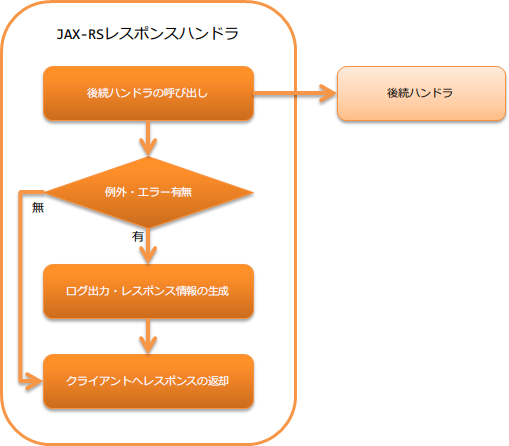
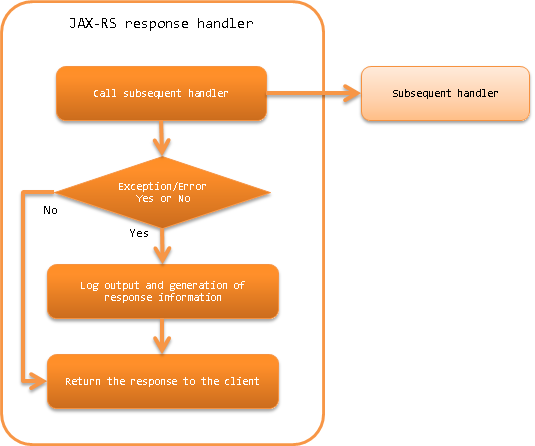
JAX-RSレスポンスハンドラページを英語化

diff --git a/en/application_framework/application_framework/handlers/rest/jaxrs_response_handler.rst b/en/application_framework/application_framework/handlers/rest/jaxrs_response_handler.rst
@@ -1,33 +1,33 @@
 .. _jaxrs_response_handler:
 
-JAX-RSレスポンスハンドラ
+JAX-RS Response Handler
 ==================================================
-.. contents:: 目次
+.. contents:: Table of contents
   :depth: 3
   :local:
 
-本ハンドラでは、後続のハンドラ(リソース(アクション)クラスや :ref:`body_convert_handler`)
-から戻されたレスポンス情報を、クライアントに返却する。
-後続のハンドラで例外及びエラーが送出された場合には、エラー及び例外に対応したレスポンス情報を構築しクライアントに返却する。
+This handler returns the response information from the subsequent handler (resource (action) class or :ref:`body_convert_handler`) to the client.
+If an exception and error is thrown by the subsequent handler, constructs the response information corresponding to the error and exception,
+and returns it to the client.
 
-本ハンドラでは、以下の処理を行う。
+This handler performs the following process.
 
-* 例外及びエラー発生時のレスポンス情報の生成を行う。
-  詳細は、 :ref:`jaxrs_response_handler-error_response` を参照。
-* 例外及びエラー発生時のログ出力を行う。
-  詳細は、 :ref:`jaxrs_response_handler-error_log` を参照
-* クライアントへのレスポンスの返却を行う。
+* Generates the response information when an exception and error occur.
+  For details, see :ref:`jaxrs_response_handler-error_response`.
+* Generates the log output when exception and error occur.
+  For details, see :ref:`jaxrs_response_handler-error_log`.
+* Returns the response to the client.
 
-処理の流れは以下のとおり。
+The process flow is as follows.
 
 .. image:: ../images/JaxRsResponseHandler/flow.png
   :scale: 75
-  
-ハンドラクラス名
+
+Handler class name
 --------------------------------------------------
 * :java:extdoc:`nablarch.fw.jaxrs.JaxRsResponseHandler`
 
-モジュール一覧
+Module list
 --------------------------------------------------
 .. code-block:: xml
 
@@ -36,25 +36,25 @@ JAX-RSレスポンスハンドラ
     <artifactId>nablarch-fw-jaxrs</artifactId>
   </dependency>
 
-制約
+Constraints
 ------------------------------
-なし。
+None.
 
 
 .. _jaxrs_response_handler-error_response:
 
-例外及びエラーに応じたレスポンスの生成
---------------------------------------------------
-例外及びエラーに応じたレスポンス情報の生成は、 :java:extdoc:`errorResponseBuilder <nablarch.fw.jaxrs.JaxRsResponseHandler.setErrorResponseBuilder(nablarch.fw.jaxrs.ErrorResponseBuilder)>` プロパティに設定された
-:java:extdoc:`ErrorResponseBuilder <nablarch.fw.jaxrs.ErrorResponseBuilder>` により行われる。
-ただし、発生した例外クラスが :java:extdoc:`HttpErrorResponse <nablarch.fw.web.HttpErrorResponse>` の場合は、
-:java:extdoc:`HttpErrorResponse#getResponse() <nablarch.fw.web.HttpErrorResponse.getResponse()>` から戻される
-:java:extdoc:`HttpResponse <nablarch.fw.web.HttpResponse>` がクライアントに戻される。
+Generate responses in response to exceptions and errors
+---------------------------------------------------------------------------
+Generation of response information based on the exceptions and errors is performed by :java:extdoc:`ErrorResponseBuilder <nablarch.fw.jaxrs.ErrorResponseBuilder>`
+configured in the :java:extdoc:`errorResponseBuilder <nablarch.fw.jaxrs.JaxRsResponseHandler.setErrorResponseBuilder(nablarch.fw.jaxrs.ErrorResponseBuilder)>` property.
+However, when the exception class that has occurred is :java:extdoc:`HttpErrorResponse <nablarch.fw.web.HttpErrorResponse>`,
+:java:extdoc:`HttpResponse <nablarch.fw.web.HttpResponse>` that is returned from
+:java:extdoc:`HttpErrorResponse#getResponse() <nablarch.fw.web.HttpErrorResponse.getResponse()>` is returned to the client.
 
-設定を省略した場合は、デフォルト実装の :java:extdoc:`ErrorResponseBuilder <nablarch.fw.jaxrs.ErrorResponseBuilder>` が使用される。
-デフォルト実装では、プロジェクト要件を満たせない場合は、デフォルト実装クラスを継承して対応すること。
+If the setting is omitted, :java:extdoc:`ErrorResponseBuilder <nablarch.fw.jaxrs.ErrorResponseBuilder>` of the default implementation will be used.
+When the project requirements cannot be met with the default implementation by inheriting the default implementation class.
 
-以下に設定例を示す。
+A configuration example is shown below.
 
 .. code-block:: xml
 
@@ -67,15 +67,15 @@ JAX-RSレスポンスハンドラ
 
 .. _jaxrs_response_handler-error_log:
 
-例外及びエラーに応じたログ出力
+Log output in response to exceptions and errors
 --------------------------------------------------
-例外及びエラーに応じたログ出力は :java:extdoc:`errorLogWriter <nablarch.fw.jaxrs.JaxRsResponseHandler.setErrorLogWriter(nablarch.fw.jaxrs.JaxRsErrorLogWriter)>` プロパティに設定された
-:java:extdoc:`JaxRsErrorLogWriter <nablarch.fw.jaxrs.JaxRsErrorLogWriter>` により行われる。
+Log output in response to exceptions and errors is performed by :java:extdoc:`JaxRsErrorLogWriter <nablarch.fw.jaxrs.JaxRsErrorLogWriter>`
+configured in the property :java:extdoc:`errorLogWriter <nablarch.fw.jaxrs.JaxRsResponseHandler.setErrorLogWriter(nablarch.fw.jaxrs.JaxRsErrorLogWriter)>`.
 
-設定を省略した場合は、デフォルト実装の :java:extdoc:`JaxRsErrorLogWriter <nablarch.fw.jaxrs.JaxRsErrorLogWriter>` が使用される。
-デフォルト実装では、プロジェクト要件を満たせない場合は、デフォルト実装クラスを継承して対応すること。
+If the setting is omitted, :java:extdoc:`JaxRsErrorLogWriter <nablarch.fw.jaxrs.JaxRsErrorLogWriter>` of the default implementation
+will be used. When the project requirements cannot be met with the default implementation by inheriting the default implementation class.
 
-以下に設定例を示す。
+A configuration example is shown below.
 
 .. code-block:: xml
 
@@ -85,17 +85,17 @@ JAX-RSレスポンスハンドラ
     </property>
   </component>
 
-拡張例
+Expansion example
 --------------------------------------------------
 
 .. _jaxrs_response_handler-error_response_body:
 
-エラー時のレスポンスにメッセージを設定する
+Configure a message in response to an error
 ~~~~~~~~~~~~~~~~~~~~~~~~~~~~~~~~~~~~~~~~~~~~~~~~~~~~~
-バリデーションエラー発生時など、エラーレスポンスのボディにエラーメッセージを設定して返却したい場合がある。
-このような場合は、 :java:extdoc:`ErrorResponseBuilder <nablarch.fw.jaxrs.ErrorResponseBuilder>` の継承クラスを作成して対応する。
+In some cases, such as a validation error, etc., the error message may have to be configured in the response body and returned.
+For such cases, support by creating an inherited class of :java:extdoc:`ErrorResponseBuilder <nablarch.fw.jaxrs.ErrorResponseBuilder>`.
 
-以下に、JSON形式のエラーメッセージをレスポンスに設定する場合の実装例を示す。
+An implementation example where a JSON format error message is configured in the response is shown below.
 
 .. code-block:: java
 
@@ -117,7 +117,7 @@ JAX-RSレスポンスハンドラ
           final HttpResponse response = new HttpResponse(400);
           response.setContentType(MediaType.APPLICATION_JSON);
 
-          // エラーメッセージの生成処理は省略
+          // Generation process of error message is omitted
 
           try {
               response.write(objectMapper.writeValueAsString(errorMessages));
@@ -130,15 +130,15 @@ JAX-RSレスポンスハンドラ
 
 .. _jaxrs_response_handler-individually_error_response:
 
-特定のエラーの場合に個別に定義したエラーレスポンスを返却する
-~~~~~~~~~~~~~~~~~~~~~~~~~~~~~~~~~~~~~~~~~~~~~~~~~~~~~~~~~~~~~
-本ハンドラの後続の処理で発生したエラーに対し、
-個別にステータスコードやボディを定義したエラーレスポンスを返却したい場合がある。
+Return individually defined error response for specific errors
+~~~~~~~~~~~~~~~~~~~~~~~~~~~~~~~~~~~~~~~~~~~~~~~~~~~~~~~~~~~~~~~~~~~~~~~~~~~~~~~~~~~~~~~~
+For errors that occur in the subsequent process after this handler,
+error response defined with a particular status code or body may have to be returned.
 
-その場合は :java:extdoc:`ErrorResponseBuilder <nablarch.fw.jaxrs.ErrorResponseBuilder>` の継承クラスを作成し、
-送出された例外に応じたレスポンスの生成処理を個別に実装する。
+In such cases, create an inherited class from :java:extdoc:`ErrorResponseBuilder <nablarch.fw.jaxrs.ErrorResponseBuilder>`
+and implement the response generation process individually corresponding to the exception thrown.
 
-実装例を以下に示す。
+An implementation example is shown below.
 
 .. code-block:: java
 
